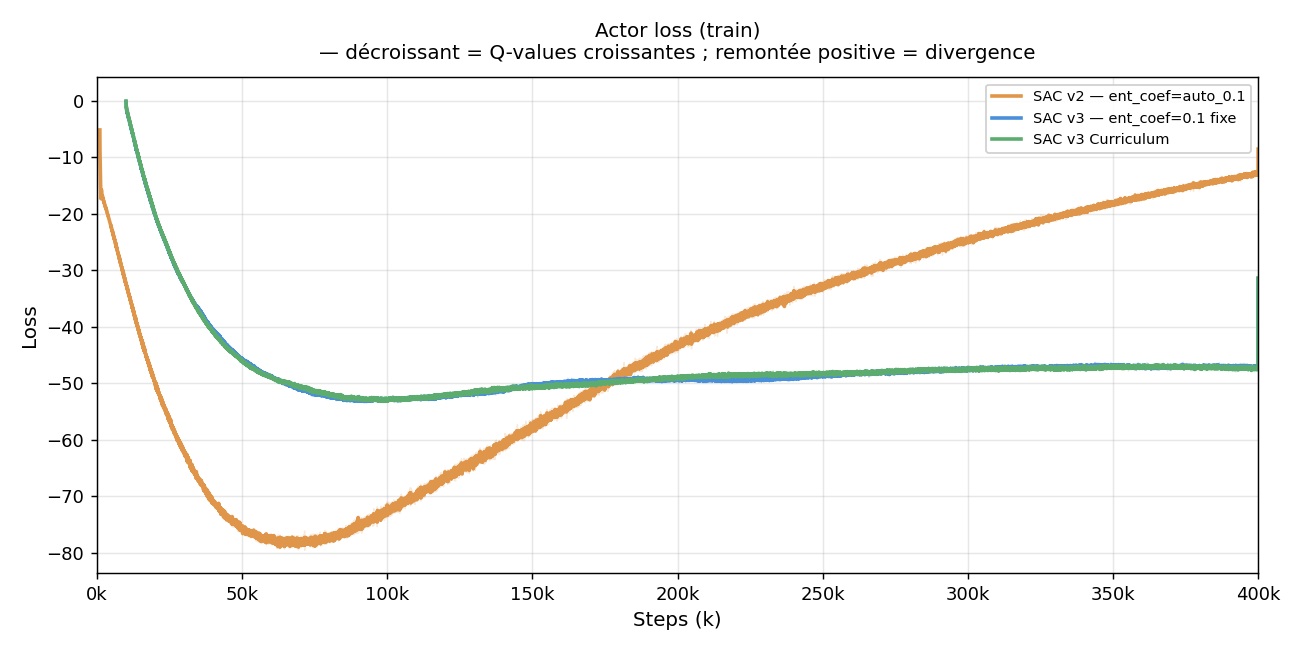
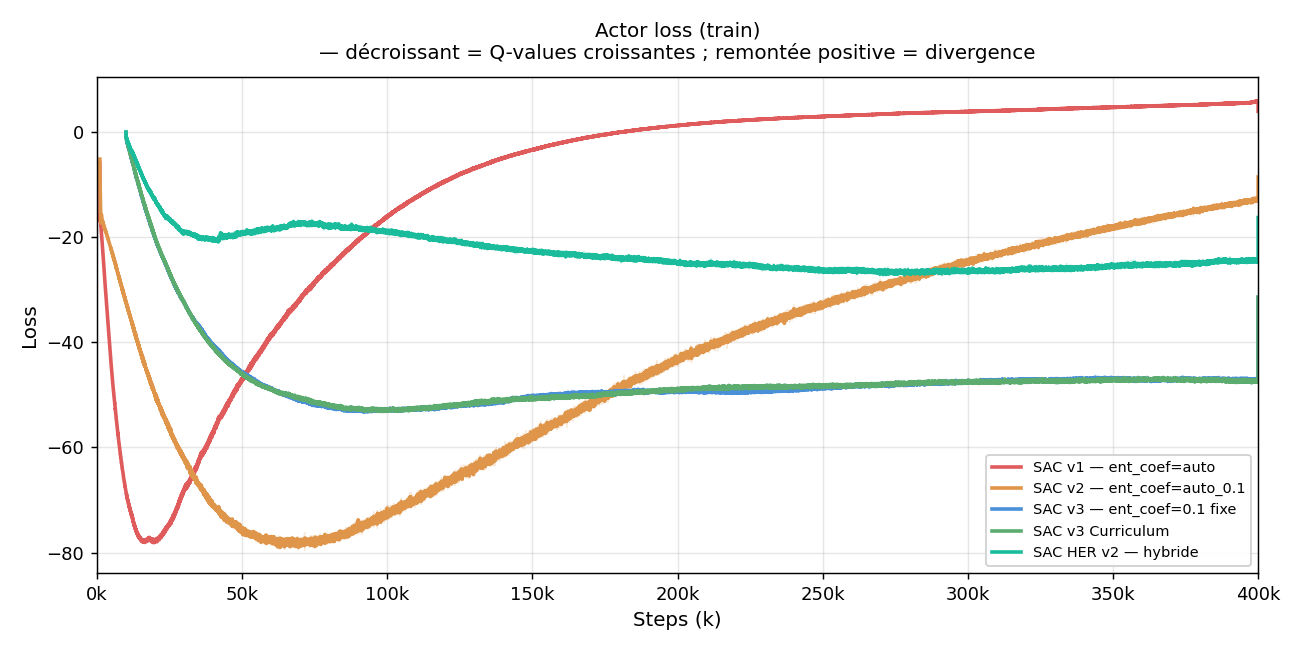
Fix combined plots: correct run_ids for v1 and HER v2, add all 5 curves to actor_loss

diff --git a/scripts/plot_combined.py b/scripts/plot_combined.py
@@ -29,7 +29,7 @@ import pandas as pd
 RUNS = [
     {
         "key": "run_sac_v1",
-        "run_id": "3518295f61e84b49",
+        "run_id": "256b90f5b48448968dcbfd08ee8a8655",
         "output_dir": "outputs/OpenCabinet_SAC_seed0_20260506_201751",
         "label": "SAC v1 — ent_coef=auto",
         "color": "#e05c5c",
@@ -61,7 +61,7 @@ RUNS = [
     },
     {
         "key": "run_sac_her_v2",
-        "run_id": "94ad73ca2b1f48ee",
+        "run_id": "94ad73ca2b1f48ee95e187833109085f",
         "output_dir": "outputs/OpenCabinet_SAC_seed0_20260507_174253",
         "label": "SAC HER v2 — hybride",
         "color": "#1abc9c",